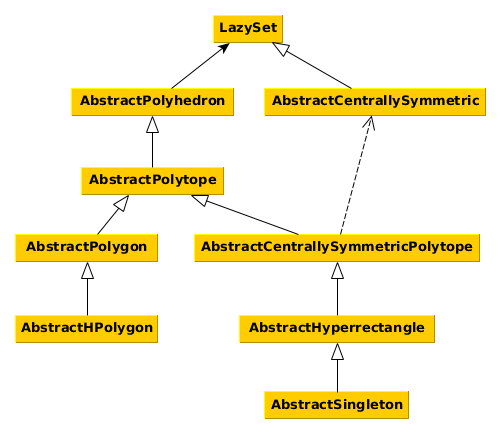
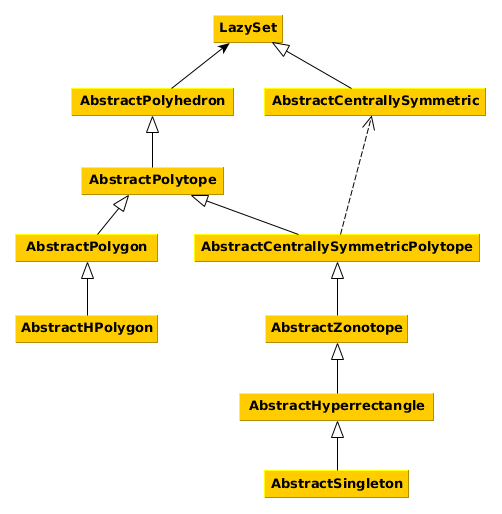
add docs for AbstractZonotope

diff --git a/docs/src/lib/representations.md b/docs/src/lib/representations.md
@@ -61,6 +61,9 @@ Inherited from [`AbstractCentrallySymmetricPolytope`](@ref):
 * [`isempty`](@ref isempty(::AbstractCentrallySymmetricPolytope))
 * [`an_element`](@ref an_element(::AbstractCentrallySymmetricPolytope{N}) where {N<:Real})
 
+Inherited from [`AbstractZonotope`](@ref):
+* [`ngens`](@ref ngens(::AbstractZonotope))
+
 Inherited from [`AbstractHyperrectangle`](@ref):
 * [`σ`](@ref σ(::AbstractVector{N}, ::AbstractHyperrectangle{N}) where {N<:Real})
 * [`∈`](@ref ∈(::AbstractVector{N}, ::AbstractHyperrectangle{N}) where {N<:Real})
@@ -68,6 +71,8 @@ Inherited from [`AbstractHyperrectangle`](@ref):
 * [`vertices_list`](@ref vertices_list(::AbstractHyperrectangle{N}) where {N<:Real})
 * [`high`](@ref high(::AbstractHyperrectangle{N}) where {N<:Real})
 * [`low`](@ref low(::AbstractHyperrectangle{N}) where {N<:Real})
+* [`generators`](@ref generators(::AbstractZonotope))
+* [`genmat`](@ref genmat(::AbstractZonotope))
 
 ### Manhattan norm ball
 
@@ -235,6 +240,9 @@ Inherited from [`AbstractCentrallySymmetricPolytope`](@ref):
 * [`isempty`](@ref isempty(::AbstractCentrallySymmetricPolytope))
 * [`an_element`](@ref an_element(::AbstractCentrallySymmetricPolytope{N}) where {N<:Real})
 
+Inherited from [`AbstractZonotope`](@ref):
+* [`ngens`](@ref ngens(::AbstractZonotope))
+
 Inherited from [`AbstractHyperrectangle`](@ref):
 * [`σ`](@ref σ(::AbstractVector{N}, ::AbstractHyperrectangle{N}) where {N<:Real})
 * [`∈`](@ref ∈(::AbstractVector{N}, ::AbstractHyperrectangle{N}) where {N<:Real})
@@ -243,6 +251,8 @@ Inherited from [`AbstractHyperrectangle`](@ref):
 * [`vertices_list`](@ref vertices_list(::AbstractHyperrectangle{N}) where {N<:Real})
 * [`high`](@ref high(::AbstractHyperrectangle{N}) where {N<:Real})
 * [`low`](@ref low(::AbstractHyperrectangle{N}) where {N<:Real})
+* [`generators`](@ref generators(::AbstractZonotope))
+* [`genmat`](@ref genmat(::AbstractZonotope))
 
 ## Interval
 
@@ -279,9 +289,14 @@ Inherited from [`AbstractPolytope`](@ref):
 Inherited from [`AbstractCentrallySymmetricPolytope`](@ref):
 * [`isempty`](@ref isempty(::AbstractCentrallySymmetricPolytope))
 
+Inherited from [`AbstractZonotope`](@ref):
+* [`ngens`](@ref ngens(::AbstractZonotope))
+
 Inherited from [`AbstractHyperrectangle`](@ref):
 * [`norm`](@ref norm(::AbstractHyperrectangle, ::Real))
 * [`radius`](@ref radius(::AbstractHyperrectangle, ::Real))
+* [`generators`](@ref generators(::AbstractZonotope))
+* [`genmat`](@ref genmat(::AbstractZonotope))
 
 ## Line
 
@@ -318,6 +333,8 @@ halfspace_right(::LineSegment)
 vertices_list(::LineSegment{N}) where {N<:Real}
 constraints_list(::LineSegment{N}) where {N<:Real}
 translate(::LineSegment{N}, ::AbstractVector{N}) where {N<:Real}
+generators(::LineSegment{N}) where {N<:Real}
+genmat(::LineSegment)
 plot_recipe(::LineSegment{N}, ::N=zero(N)) where {N<:Real}
 RecipesBase.apply_recipe(::Dict{Symbol,Any}, ::Union{LineSegment{N}, Interval{N}}, ::N=zero(N)) where {N<:Real}
 ```
@@ -331,6 +348,9 @@ Inherited from [`AbstractPolytope`](@ref):
 
 Inherited from [`AbstractCentrallySymmetricPolytope`](@ref):
 * [`isempty`](@ref isempty(::AbstractCentrallySymmetricPolytope))
+
+Inherited from [`AbstractZonotope`](@ref):
+* [`ngens`](@ref ngens(::AbstractZonotope))
 
 ## Polygons
 
@@ -566,6 +586,9 @@ Inherited from [`AbstractCentrallySymmetricPolytope`](@ref):
 * [`dim`](@ref dim(::AbstractCentrallySymmetricPolytope))
 * [`isempty`](@ref isempty(::AbstractCentrallySymmetricPolytope))
 
+Inherited from [`AbstractZonotope`](@ref):
+* [`ngens`](@ref ngens(::AbstractZonotope))
+
 Inherited from [`AbstractHyperrectangle`](@ref):
 * [`norm`](@ref norm(::AbstractHyperrectangle, ::Real))
 * [`radius`](@ref radius(::AbstractHyperrectangle, ::Real))
@@ -581,6 +604,8 @@ Inherited from [`AbstractSingleton`](@ref):
 * [`radius_hyperrectangle`](@ref radius_hyperrectangle(::AbstractSingleton{N}) where {N<:Real})
 * [`radius_hyperrectangle`](@ref radius_hyperrectangle(::AbstractSingleton{N}, ::Int) where {N<:Real})
 * [`linear_map`](@ref linear_map(::AbstractMatrix{N}, ::AbstractSingleton{N}) where {N<:Real})
+* [`generators`](@ref generators(::AbstractSingleton{N}) where {N<:Real})
+* [`genmat`](@ref genmat(::AbstractSingleton{N}) where {N<:Real})
 
 ## Universe
 
@@ -625,6 +650,9 @@ Inherited from [`AbstractPolytope`](@ref):
 Inherited from [`AbstractCentrallySymmetricPolytope`](@ref):
 * [`isempty`](@ref isempty(::AbstractCentrallySymmetricPolytope))
 
+Inherited from [`AbstractZonotope`](@ref):
+* [`ngens`](@ref ngens(::AbstractZonotope))
+
 Inherited from [`AbstractHyperrectangle`](@ref):
 * [`norm`](@ref norm(::AbstractHyperrectangle, ::Real))
 * [`radius`](@ref radius(::AbstractHyperrectangle, ::Real))
@@ -637,6 +665,8 @@ Inherited from [`AbstractSingleton`](@ref):
 * [`vertices_list`](@ref vertices_list(::AbstractSingleton{N}) where {N<:Real})
 * [`center`](@ref center(::AbstractSingleton{N}) where {N<:Real})
 * [`an_element`](@ref an_element(::AbstractSingleton{N}) where {N<:Real})
+* [`generators`](@ref generators(::AbstractSingleton{N}) where {N<:Real})
+* [`genmat`](@ref genmat(::AbstractSingleton{N}) where {N<:Real})
 
 ## Zonotope
 
@@ -652,6 +682,7 @@ constraints_list(::Zonotope{N}) where {N<:AbstractFloat}
 center(::Zonotope{N}) where {N<:Real}
 order(::Zonotope)
 generators(Z::Zonotope)
+genmat(Z::Zonotope)
 minkowski_sum(::Zonotope{N}, ::Zonotope{N}) where {N<:Real}
 linear_map(::AbstractMatrix{N}, ::Zonotope{N}) where {N<:Real}
 translate(::Zonotope{N}, ::AbstractVector{N}) where {N<:Real}

diff --git a/docs/src/lib/interfaces.md b/docs/src/lib/interfaces.md
@@ -206,6 +206,23 @@ an_element(::AbstractCentrallySymmetricPolytope{N}) where {N<:Real}
 isempty(::AbstractCentrallySymmetricPolytope)
 ```
 
+##### AbstractZonotope
+
+A zonotope is a specific centrally symmetric polytope characterized by a
+center and a collection of generators.
+
+```@docs
+AbstractZonotope
+```
+
+This interface defines the following functions:
+
+```@docs
+ngens(Z::AbstractZonotope)
+genmat_fallback(Z::AbstractZonotope{N}) where {N<:Real}
+generators_fallback(Z::AbstractZonotope{N}) where {N<:Real}
+```
+
 ##### Hyperrectangle
 
 A hyperrectangle is a special centrally symmetric polytope with axis-aligned
@@ -229,6 +246,8 @@ high(::AbstractHyperrectangle{N}, ::Int) where {N<:Real}
 low(::AbstractHyperrectangle{N}) where {N<:Real}
 low(::AbstractHyperrectangle{N}, ::Int) where {N<:Real}
 split(::AbstractHyperrectangle{N}, ::AbstractVector{Int}) where {N<:Real}
+generators(::AbstractHyperrectangle)
+genmat(::AbstractHyperrectangle)
 ```
 
 ##### Singleton
@@ -254,6 +273,8 @@ high(::AbstractSingleton{N}, ::Int) where {N<:Real}
 low(::AbstractSingleton{N}) where {N<:Real}
 low(::AbstractSingleton{N}, ::Int) where {N<:Real}
 linear_map(::AbstractMatrix{N}, ::AbstractSingleton{N}) where {N<:Real}
+generators(::AbstractSingleton{N}) where {N<:Real}
+genmat(::AbstractSingleton{N}) where {N<:Real}
 plot_recipe(::AbstractSingleton{N}, ::N=zero(N)) where {N<:Real}
 RecipesBase.apply_recipe(::Dict{Symbol,Any}, ::AbstractSingleton{N}, ::N=zero(N)) where {N<:Real}
 ```

diff --git a/docs/src/lib/operations.md b/docs/src/lib/operations.md
@@ -328,6 +328,9 @@ Inherited from [`AbstractCentrallySymmetricPolytope`](@ref):
 * [`isempty`](@ref isempty(::AbstractCentrallySymmetricPolytope))
 * [`an_element`](@ref an_element(::AbstractCentrallySymmetricPolytope{N}) where {N<:Real})
 
+Inherited from [`AbstractZonotope`](@ref):
+* [`ngens`](@ref ngens(::AbstractZonotope))
+
 Inherited from [`AbstractHyperrectangle`](@ref):
 * [`∈`](@ref ∈(::AbstractVector{N}, ::AbstractHyperrectangle{N}) where {N<:Real})
 * [`norm`](@ref norm(::AbstractHyperrectangle, ::Real))
@@ -335,6 +338,8 @@ Inherited from [`AbstractHyperrectangle`](@ref):
 * [`vertices_list`](@ref vertices_list(::AbstractHyperrectangle{N}) where {N<:Real})
 * [`high`](@ref high(::AbstractHyperrectangle{N}) where {N<:Real})
 * [`low`](@ref low(::AbstractHyperrectangle{N}) where {N<:Real})
+* [`generators`](@ref generators(::AbstractZonotope))
+* [`genmat`](@ref genmat(::AbstractZonotope))
 
 ### Translation
 
